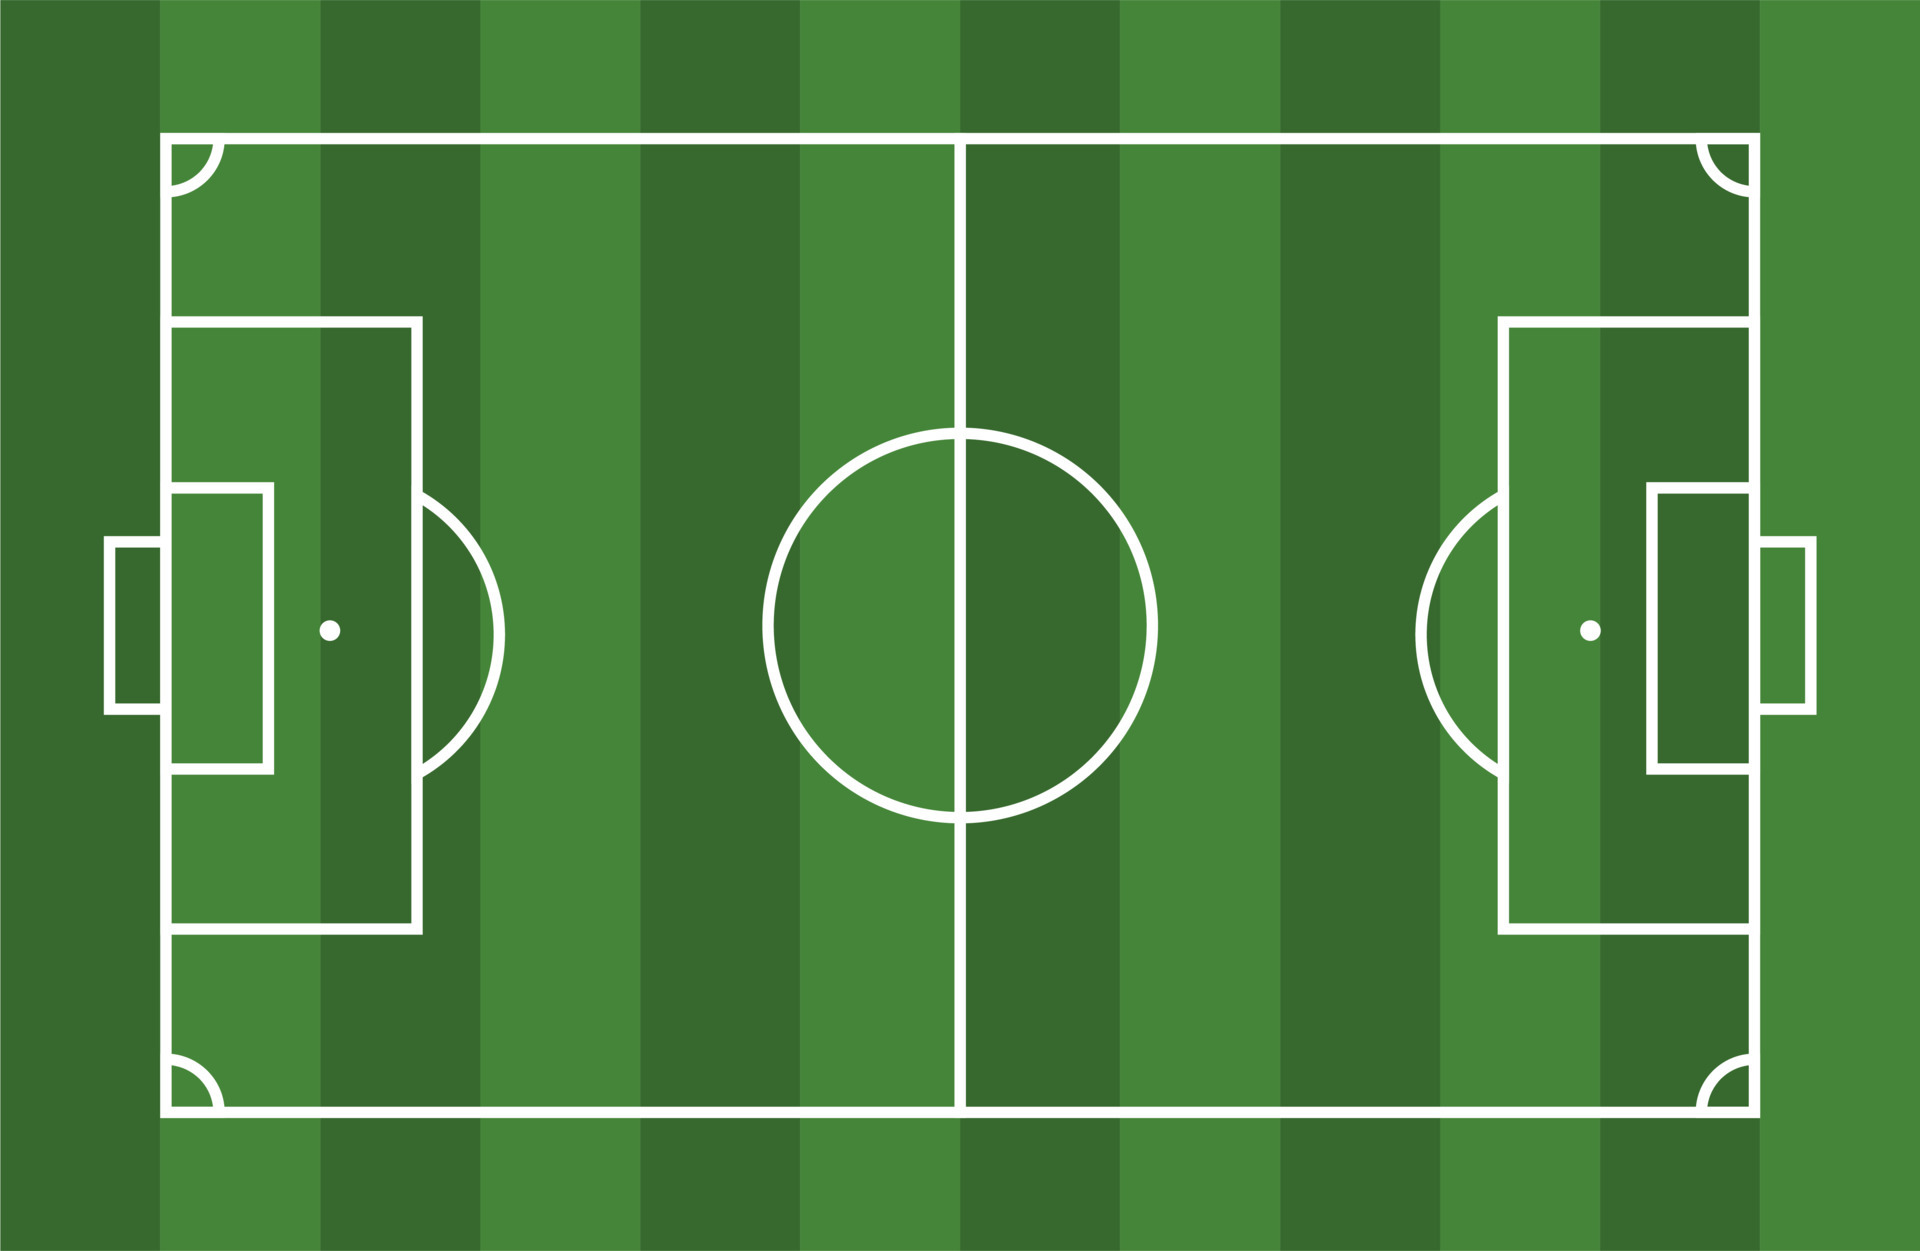
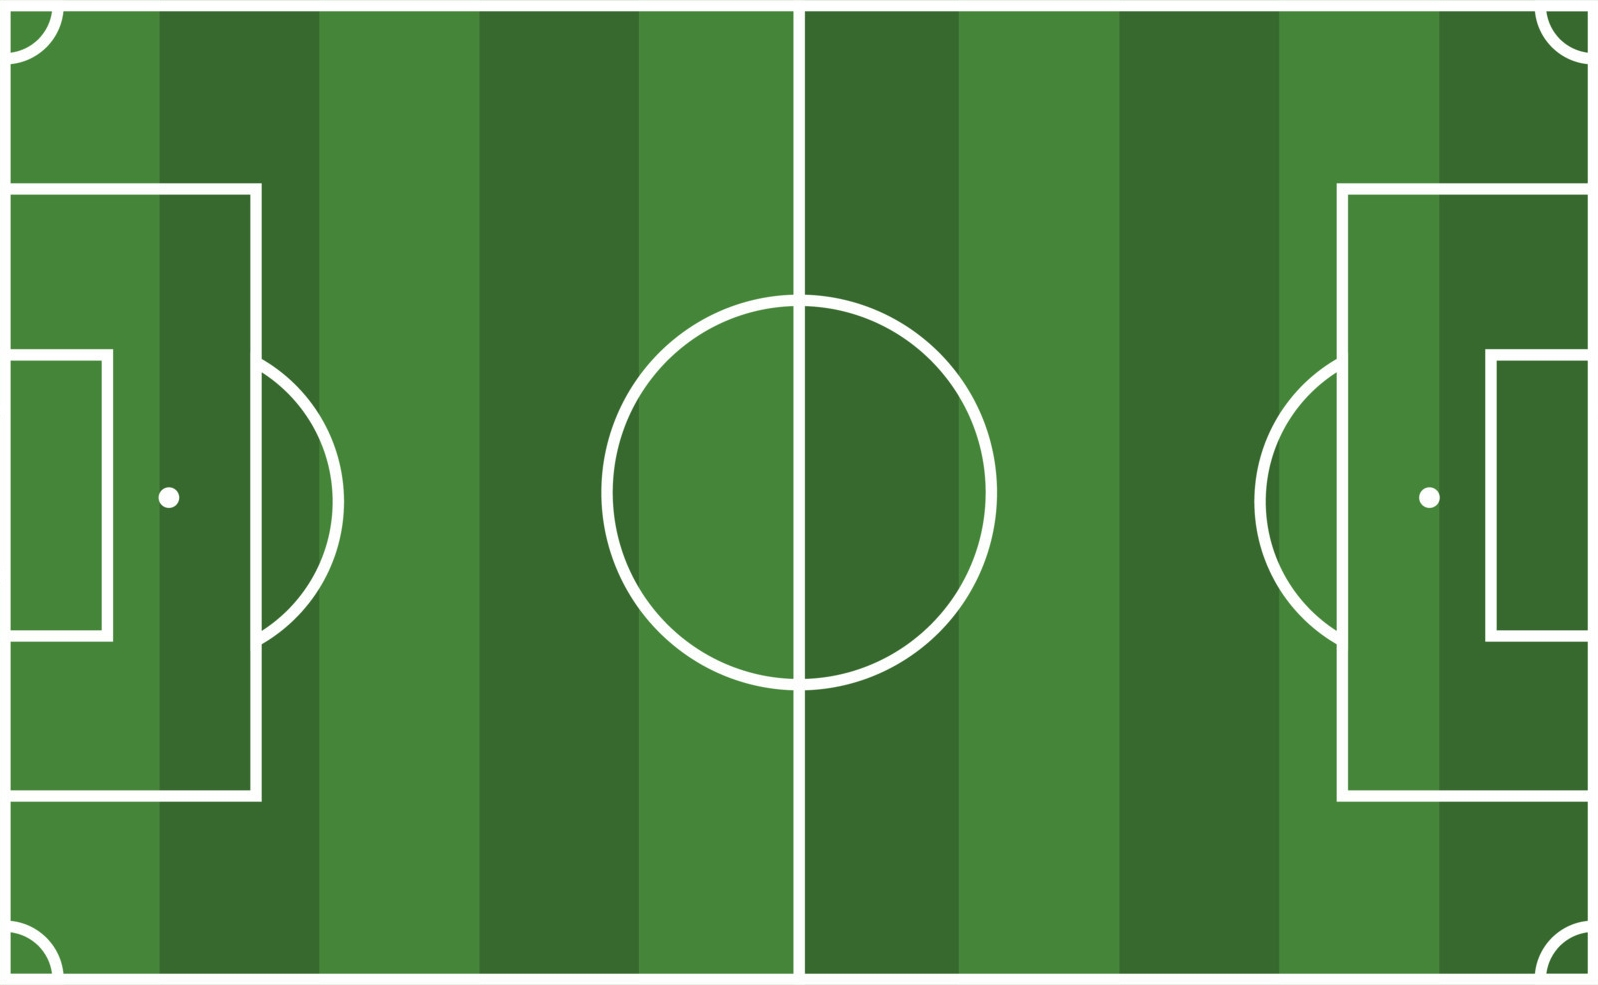
made positions tablet inside playeroverlay and added focus trap on it

diff --git a/client/src/portals/PlayerOverlay/PlayerOverlay.tsx b/client/src/portals/PlayerOverlay/PlayerOverlay.tsx
@@ -5,6 +5,9 @@ import { useLockBodyScroll } from '@uidotdev/usehooks';
 import { Button } from '@mui/material';
 import anonymous_photo from "../../assets/anonymous_photo.jpg"
 import { attributesFull } from '../../data/attributes';
+import { wings, centers } from '../../data/positionsTitles';
+import { skillsQualityStyle } from '../../Utils/skillsQualityStyle';
+import FocusTrap from '@mui/material/Unstable_TrapFocus';
 
 export interface IPlayerOverlayProps {
   lang: Language['lang'],
@@ -25,39 +28,48 @@ export const PlayerOverlay: React.FC<IPlayerOverlayProps> = ({ info, attributes,
 
   console.log(info, attributes, skills);
 
+  const filteredWings = Object.entries(skills).filter(item => wings.includes(item[0]));
+  const filteredCenters = Object.entries(skills).filter(item => centers.includes(item[0]));
+
 
   return ReactDOM.createPortal((
-    <>
-      <div className='overlay_bg'></div>
-      <section className="player-overlay">
-        <div className="close_button_container">
-          <Button variant='text' color='inherit' size='large' onClick={handleFalse}>X</Button>
-        </div>
-        <div className='player-overlay_container'>
-          <div className="player_overlay_info_positions">
-            <div className='player-overlay_info'>
-              <img className='player_photo' src={anonymous_photo} alt="anonymous photo" />
-              <ul className="info">
-                <li>{`Best rating: ${skills.Max}`}</li>
-                {Object.entries(info).map((item, index) => <li key={index}>
-                  {`${item[0]}: ${item[1]}`}
+    <FocusTrap open>
+      <div tabIndex={-1}>
+        <div className='overlay_bg'></div>
+        <section className="player-overlay">
+          <div className="close_button_container">
+            <Button variant='text' color='inherit' size='large' onClick={handleFalse}>X</Button>
+          </div>
+          <div className='player-overlay_container'>
+            <div className="player_overlay_info_positions">
+              <div className='player-overlay_info'>
+                <img className='player_photo' src={anonymous_photo} alt="anonymous photo" />
+                <ul className="info">
+                  <li>{`Best rating: ${skills.Max}`}</li>
+                  {Object.entries(info).map((item, index) => <li key={index}>
+                    {`${item[0]}: ${item[1]}`}
+                  </li>)}
+                </ul>
+              </div>
+              <div className="positions_tablet">
+                {[...filteredWings, ...filteredWings].map((item, index) => <div key={index} className={`positions_tablet_pos positions_tablet_${item[0]} ${skillsQualityStyle(item[1])}`}>
+                  {item[1]}
+                </div>)}
+                {filteredCenters.map((item, index) => <div key={index} className={`positions_tablet_pos positions_tablet_${item[0]} ${skillsQualityStyle(item[1])}`}>
+                  {item[1]}
+                </div>)}
+              </div>
+            </div>
+            <div className='player-overlay_stats'>
+              <ul className='stats'>
+                {(Object.entries(attributes) as [keyof ITranslationPairs, string][]).map((item, index) => <li key={index}>
+                  {`${attributesFull[lang][item[0]]}: ${item[1]}`}
                 </li>)}
               </ul>
             </div>
-            <div className="positions_tablet">
-
-            </div>
           </div>
-          <div className='player-overlay_stats'>
-            <ul className='stats'>
-              {(Object.entries(attributes) as [keyof ITranslationPairs, string][]).map((item, index) => <li key={index}>
-                {`${attributesFull[lang][item[0]]}: ${item[1]}`}
-              </li>)}
-            </ul>
-          </div>
-        </div>
-
-      </section>
-    </>
+        </section>
+      </div>
+    </FocusTrap>
   ), playerOverlayElement);
 };

diff --git a/client/src/portals/PlayerOverlay/PlayerOverlay.css b/client/src/portals/PlayerOverlay/PlayerOverlay.css
@@ -60,12 +60,81 @@
 .positions_tablet {
   background-image: url('../../assets/football_table.jpg');
   background-position: center;
-  background-size: cover;
-  width: calc(var(--scaleOverlayFactor) * 400px);
-  height: calc(var(--scaleOverlayFactor) * 250px);
+  background-size: contain;
+  background-repeat: no-repeat;
+  width: calc(var(--scaleOverlayFactor) * 425px);
+  height: calc(var(--scaleOverlayFactor) * 275px);
   position: relative;
   margin-top: 25px;
 }
+
+.positions_tablet .positions_tablet_pos {
+  font-size: calc(var(--scaleOverlayFactor) * 14px);
+  width: calc(var(--scaleOverlayFactor) * 45px);
+  height: calc(var(--scaleOverlayFactor) * 45px);
+  background: var(--tableTdColor);
+  border: calc(var(--scaleOverlayFactor) * 3px) solid black;
+  border-radius: 50%;
+  display: flex;
+  justify-content: center;
+  align-items: center;
+  position: absolute;
+  user-select: none;
+  -webkit-user-select: none;
+  -moz-user-select: none;
+}
+
+.positions_tablet .positions_tablet_WB:nth-child(1),
+.positions_tablet .positions_tablet_FB:nth-child(2),
+.positions_tablet .positions_tablet_WM:nth-child(3),
+.positions_tablet .positions_tablet_WA:nth-child(4) {
+  top: 10%;
+}
+
+.positions_tablet .positions_tablet_WB:nth-child(5),
+.positions_tablet .positions_tablet_FB:nth-child(6),
+.positions_tablet .positions_tablet_WM:nth-child(7),
+.positions_tablet .positions_tablet_WA:nth-child(8) {
+  bottom: 10%;
+}
+
+.positions_tablet .positions_tablet_WB,
+.positions_tablet .positions_tablet_CD {
+  left: 15%;
+}
+
+.positions_tablet .positions_tablet_FB,
+.positions_tablet .positions_tablet_DM {
+  left: 33%;
+}
+
+.positions_tablet .positions_tablet_WM,
+.positions_tablet .positions_tablet_CM {
+  left: 51%;
+}
+
+.positions_tablet .positions_tablet_WA,
+.positions_tablet .positions_tablet_AM {
+  left: 69%;
+}
+
+.positions_tablet .positions_tablet_GK:nth-child(9),
+.positions_tablet .positions_tablet_CD:nth-child(10),
+.positions_tablet .positions_tablet_DM:nth-child(11),
+.positions_tablet .positions_tablet_CM:nth-child(12),
+.positions_tablet .positions_tablet_AM:nth-child(13),
+.positions_tablet .positions_tablet_ST:nth-child(14) {
+  top: calc(50% - (var(--scaleOverlayFactor) * 45px)/2);
+}
+
+.positions_tablet .positions_tablet_GK {
+  left: 0%;
+}
+
+.positions_tablet .positions_tablet_ST {
+  left: 85%;
+}
+
 
 .stats li {
   padding: 0;

diff --git a/client/src/components/Table/Row/Row.tsx b/client/src/components/Table/Row/Row.tsx
@@ -14,8 +14,12 @@ const Row = ({ item, lang }: IRow) => {
   const [isToggled, , handleFalse, handleTrue] = useToggle();
   //console.log(rest);
 
+  const keyTabbable = (e: React.KeyboardEvent<HTMLTableRowElement>) => {
+    if (e.key === "Enter" || e.key === " ") handleTrue();
+  }
+
   return (
-    <tr tabIndex={0} onClick={handleTrue}>
+    <tr tabIndex={0} onClick={handleTrue} onKeyDown={keyTabbable}>
       {Object.values({ ...skills, ...rest }).map((item, index) => <td key={index} className={skillsQualityStyle(item)}>
         {item}
       </td>)}

diff --git a/client/src/data/positionsTitles.ts b/client/src/data/positionsTitles.ts
@@ -14,4 +14,4 @@ export const titles = {
 
 export const wings = ['WA', 'WM', 'FB', 'WB'];
 
-export const centers = ['ST', 'CD', 'GK', 'CM', 'DM', 'AM']
+export const centers = ['ST', 'CD', 'GK', 'CM', 'DM', 'AM'];
